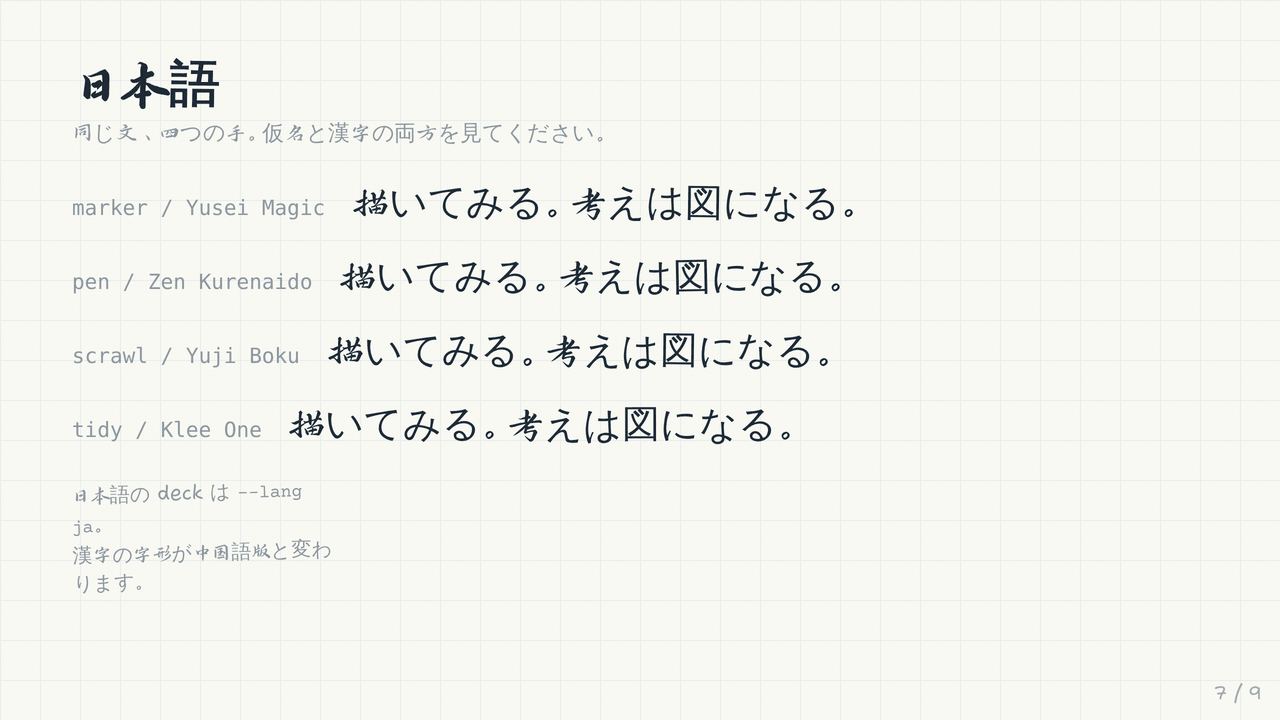
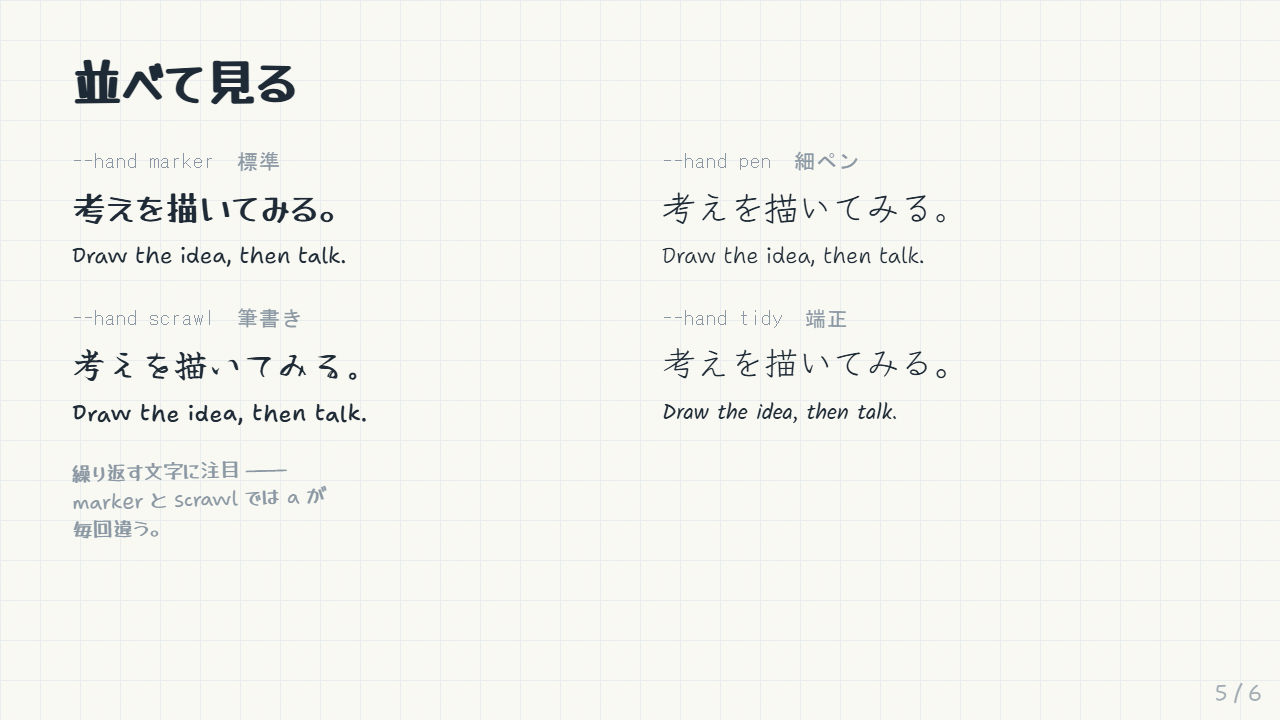
Localize README screenshots; fix per-element data-hand fonts
English and Japanese READMEs now show slides in their own language,
built from demo/en-slides.html and demo/ja-slides.html.

font-family was only declared on html/body, so every [data-hand]
element inherited body's already-resolved stack and the specimen's
side-by-side hands all rendered in marker. Restate it on [data-hand]
and retake hands.png / ja.png, which showed the bug.

diff --git a/demo/ja-slides.html b/demo/ja-slides.html
@@ -1,33 +1,117 @@
+<!-- README screenshots, Japanese. Build with --all-fonts --lang ja: the hands slide switches hand per element. -->
 <section class="slide">
   <div class="stage center-all">
     <div>
       <p class="eyebrow">handwritten-slides</p>
       <h1>考えを <span data-sketch="highlight">描く</span></h1>
-      <p class="lead pencil" style="margin-top:18px">手書き風スライド · 単一の HTML ファイル</p>
+      <p class="lead pencil" style="margin-top:18px">手書き風スライドの生成器 · 単一の HTML ファイル</p>
+      <p class="small pencil" style="margin-top:40px">← → ページ送り　f 全画面　o 一覧　⌘P PDF に書き出し</p>
     </div>
   </div>
 </section>
+
 <section class="slide">
   <div class="stage">
     <h2>なぜ手書きなのか</h2>
-    <div class="cols-3" style="margin-top:50px">
-      <div class="sticky"><h3>先に考える</h3><p>描けない関係は、まだ分かっていない関係です。</p></div>
-      <div class="sticky mint"><h3>密度が下がる</h3><p>手書きの字は八項目を支えられません。</p></div>
-      <div class="sticky pink"><h3>人が作った</h3><p>不完全さは痕跡を残し、痕跡は記憶に残ります。</p></div>
+    <div class="cols-3" style="margin-top:52px">
+      <div class="sticky cream">
+        <h3>先に考えさせる</h3>
+        <p>描けない関係は、まだ分かっていない関係です。</p>
+      </div>
+      <div class="sticky cream">
+        <h3>密度が自然に下がる</h3>
+        <p>手書きの字は八項目を支えられないので、一つだけ残します。</p>
+      </div>
+      <div class="sticky cream">
+        <h3>人が作ったと分かる</h3>
+        <p>不完全さは痕跡を残し、痕跡は記憶に残ります。</p>
+      </div>
     </div>
+    <p class="note" style="margin-top:44px">付箋は影で分ける。<br>色ではなく。</p>
   </div>
 </section>
+
 <section class="slide">
   <div class="stage">
-    <h2>図と数字</h2>
-    <div class="cols-2" style="margin-top:36px">
-      <ul class="bullets">
-        <li>一枚に一つの主張</li>
-        <li>関係は矢印で描く</li>
-        <li>強調は一箇所だけ</li>
-      </ul>
-      <div style="height:250px" data-sketch="bars" data-values="18,44,62,71"
-           data-labels="2023,2024,2025,2026" data-sketch-fill="yellow" data-suffix="%"></div>
+    <h2>関係は描いて見せる</h2>
+    <div class="row center" style="margin-top:86px;justify-content:center">
+      <div id="n1" class="card" style="width:210px;text-align:center" data-sketch="box">元の問題</div>
+      <div style="width:78px"></div>
+      <div id="n2" class="card" style="width:210px;text-align:center" data-sketch="box" data-sketch-fill="yellow">構造化解析</div>
+      <div style="width:78px"></div>
+      <div id="n3" class="card" style="width:210px;text-align:center" data-sketch="box">問題バンク</div>
+    </div>
+    <div data-sketch="arrow" data-from="#n1" data-to="#n2"></div>
+    <div data-sketch="arrow" data-from="#n2" data-to="#n3"></div>
+
+    <div id="n4" class="card" style="width:230px;text-align:center;margin:110px auto 0" data-sketch="box" data-sketch-color="red">人による抜き取り</div>
+    <div data-sketch="arrow" data-from="#n4" data-to="#n2" data-bend="0.2" data-sketch-color="red"></div>
+    <p class="note" style="position:absolute;right:78px;bottom:70px">矢印は自分で縁を探す。<br>座標は要らない。</p>
+  </div>
+</section>
+
+<section class="slide">
+  <div class="stage">
+    <h2>棒グラフ</h2>
+    <p class="pencil" style="margin-top:6px">二つから六つの量なら、文章より伝わる。</p>
+    <div style="height:330px;margin-top:24px" data-sketch="bars"
+         data-values="18,44,62,71"
+         data-labels="2023,2024,2025,2026"
+         data-fills="pencil,pencil,yellow,mint"
+         data-suffix="%"></div>
+    <p class="small pencil" style="margin-top:10px">参考データ · 正確な数値はスライドに文字で書く</p>
+  </div>
+</section>
+
+<section class="slide">
+  <div class="stage">
+    <h2>並べて見る</h2>
+    <div class="cols-2" style="margin-top:34px;gap:30px 44px">
+      <div data-hand="marker">
+        <p class="small pencil" style="margin-bottom:4px;font-family:ui-monospace,monospace">--hand marker　標準</p>
+        <p style="font-size:34px;margin:0 0 4px">考えを描いてみる。</p>
+        <p style="font-size:22px;margin:0">Draw the idea, then talk.</p>
+      </div>
+      <div data-hand="pen">
+        <p class="small pencil" style="margin-bottom:4px;font-family:ui-monospace,monospace">--hand pen　細ペン</p>
+        <p style="font-size:34px;margin:0 0 4px">考えを描いてみる。</p>
+        <p style="font-size:22px;margin:0">Draw the idea, then talk.</p>
+      </div>
+      <div data-hand="scrawl">
+        <p class="small pencil" style="margin-bottom:4px;font-family:ui-monospace,monospace">--hand scrawl　筆書き</p>
+        <p style="font-size:34px;margin:0 0 4px">考えを描いてみる。</p>
+        <p style="font-size:22px;margin:0">Draw the idea, then talk.</p>
+      </div>
+      <div data-hand="tidy">
+        <p class="small pencil" style="margin-bottom:4px;font-family:ui-monospace,monospace">--hand tidy　端正</p>
+        <p style="font-size:34px;margin:0 0 4px">考えを描いてみる。</p>
+        <p style="font-size:22px;margin:0">Draw the idea, then talk.</p>
+      </div>
+    </div>
+    <p class="note" style="margin-top:26px">繰り返す文字に注目 ——<br>marker と scrawl では a が毎回違う。</p>
+  </div>
+</section>
+
+<section class="slide">
+  <div class="stage">
+    <h2>二つの作り方</h2>
+    <div class="cols-2" style="margin-top:48px">
+      <div class="card" data-sketch="box" data-sketch-color="pencil">
+        <h3 class="pencil">テンプレート</h3>
+        <ul class="bullets">
+          <li>三十秒で完成</li>
+          <li>箇条書き八項目</li>
+          <li>見たらすぐ忘れる</li>
+        </ul>
+      </div>
+      <div class="card" data-sketch="box" data-sketch-color="red" data-sketch-fill="yellow">
+        <h3>手書き</h3>
+        <ul class="bullets arrow">
+          <li>考えてから書く</li>
+          <li>一枚に一つのこと</li>
+          <li>記憶に残る</li>
+        </ul>
+      </div>
     </div>
   </div>
 </section>

diff --git a/demo/en-slides.html b/demo/en-slides.html
@@ -1,0 +1,117 @@
+<!-- README screenshots, English. Build with --all-fonts --lang en: the hands slide switches hand per element. -->
+<section class="slide">
+  <div class="stage center-all">
+    <div>
+      <p class="eyebrow">handwritten-slides</p>
+      <h1>Draw the <span data-sketch="highlight">idea</span></h1>
+      <p class="lead pencil" style="margin-top:18px">Handwritten-style slides · one self-contained HTML file</p>
+      <p class="small pencil" style="margin-top:40px">← → page　f fullscreen　o overview　⌘P save as PDF</p>
+    </div>
+  </div>
+</section>
+
+<section class="slide">
+  <div class="stage">
+    <h2>Why handwritten</h2>
+    <div class="cols-3" style="margin-top:52px">
+      <div class="sticky cream">
+        <h3>It forces clarity</h3>
+        <p>A relationship you can't draw is one you haven't worked out yet.</p>
+      </div>
+      <div class="sticky cream">
+        <h3>Density stays low</h3>
+        <p>A hand can't carry eight bullets, so you keep the one that matters.</p>
+      </div>
+      <div class="sticky cream">
+        <h3>A person made it</h3>
+        <p>Imperfection leaves marks, and marks get remembered.</p>
+      </div>
+    </div>
+    <p class="note" style="margin-top:44px">Ivory notes: shadow,<br>not colour.</p>
+  </div>
+</section>
+
+<section class="slide">
+  <div class="stage">
+    <h2>Draw the relationship</h2>
+    <div class="row center" style="margin-top:86px;justify-content:center">
+      <div id="n1" class="card" style="width:210px;text-align:center" data-sketch="box">Raw questions</div>
+      <div style="width:78px"></div>
+      <div id="n2" class="card" style="width:210px;text-align:center" data-sketch="box" data-sketch-fill="yellow">Structured parse</div>
+      <div style="width:78px"></div>
+      <div id="n3" class="card" style="width:210px;text-align:center" data-sketch="box">Question bank</div>
+    </div>
+    <div data-sketch="arrow" data-from="#n1" data-to="#n2"></div>
+    <div data-sketch="arrow" data-from="#n2" data-to="#n3"></div>
+
+    <div id="n4" class="card" style="width:230px;text-align:center;margin:110px auto 0" data-sketch="box" data-sketch-color="red">Spot check</div>
+    <div data-sketch="arrow" data-from="#n4" data-to="#n2" data-bend="0.2" data-sketch-color="red"></div>
+    <p class="note" style="position:absolute;right:78px;bottom:70px">Arrows find their own edges,<br>no coordinates.</p>
+  </div>
+</section>
+
+<section class="slide">
+  <div class="stage">
+    <h2>Bar chart</h2>
+    <p class="pencil" style="margin-top:6px">Two to six quantities beat a sentence.</p>
+    <div style="height:330px;margin-top:24px" data-sketch="bars"
+         data-values="18,44,62,71"
+         data-labels="2023,2024,2025,2026"
+         data-fills="pencil,pencil,yellow,mint"
+         data-suffix="%"></div>
+    <p class="small pencil" style="margin-top:10px">Illustrative data · put exact readings on the slide as text</p>
+  </div>
+</section>
+
+<section class="slide">
+  <div class="stage">
+    <h2>Side by side</h2>
+    <div class="cols-2" style="margin-top:34px;gap:30px 44px">
+      <div data-hand="marker">
+        <p class="small pencil" style="margin-bottom:4px;font-family:ui-monospace,monospace">--hand marker　default</p>
+        <p style="font-size:34px;margin:0 0 4px">Draw the idea, then talk.</p>
+        <p style="font-size:22px;margin:0">把想法画出来。描いてみる。</p>
+      </div>
+      <div data-hand="pen">
+        <p class="small pencil" style="margin-bottom:4px;font-family:ui-monospace,monospace">--hand pen　fine pen</p>
+        <p style="font-size:34px;margin:0 0 4px">Draw the idea, then talk.</p>
+        <p style="font-size:22px;margin:0">把想法画出来。描いてみる。</p>
+      </div>
+      <div data-hand="scrawl">
+        <p class="small pencil" style="margin-bottom:4px;font-family:ui-monospace,monospace">--hand scrawl　loose</p>
+        <p style="font-size:34px;margin:0 0 4px">Draw the idea, then talk.</p>
+        <p style="font-size:22px;margin:0">把想法画出来。描いてみる。</p>
+      </div>
+      <div data-hand="tidy">
+        <p class="small pencil" style="margin-bottom:4px;font-family:ui-monospace,monospace">--hand tidy　neat</p>
+        <p style="font-size:34px;margin:0 0 4px">Draw the idea, then talk.</p>
+        <p style="font-size:22px;margin:0">把想法画出来。描いてみる。</p>
+      </div>
+    </div>
+    <p class="note" style="margin-top:26px">Watch the repeated letters —<br>no two a's match in marker or scrawl.</p>
+  </div>
+</section>
+
+<section class="slide">
+  <div class="stage">
+    <h2>Two ways to make a deck</h2>
+    <div class="cols-2" style="margin-top:48px">
+      <div class="card" data-sketch="box" data-sketch-color="pencil">
+        <h3 class="pencil">Template</h3>
+        <ul class="bullets">
+          <li>Done in thirty seconds</li>
+          <li>Eight bullets</li>
+          <li>Forgotten by lunch</li>
+        </ul>
+      </div>
+      <div class="card" data-sketch="box" data-sketch-color="red" data-sketch-fill="yellow">
+        <h3>Hand-drawn</h3>
+        <ul class="bullets arrow">
+          <li>Think before the pen moves</li>
+          <li>One thing per slide</li>
+          <li>Remembered</li>
+        </ul>
+      </div>
+    </div>
+  </div>
+</section>

diff --git a/assets/sketch.css b/assets/sketch.css
@@ -63,6 +63,9 @@
 [data-hand] {
   --font-display: var(--latin-display), var(--zh), var(--ja), "Kaiti SC", "KaiTi", "STKaiti", "Chalkboard SE", cursive;
   --font-hand:    var(--latin-body), var(--zh), var(--ja), "Kaiti SC", "KaiTi", "STKaiti", "Segoe Print", cursive;
+  /* font-family resolves var() where it's declared, so body's value would be
+     inherited already fixed to body's hand. Restate it on each data-hand. */
+  font-family: var(--font-hand);
   font-variation-settings: var(--hand-vary, normal);
   font-weight: var(--hand-body-weight, 400);
 }

diff --git a/README.ja.md b/README.ja.md
@@ -6,7 +6,7 @@
 
 CJK を最優先に設計しています。このスタイルで難しいのはラテン文字ではありません。中国語と日本語を英語と同じ筆致にそろえ、こっそりシステムのゴシック体に逃げさせないことです。
 
-![表紙](docs/img/cover.png)
+![表紙](docs/img/cover-ja.png)
 
 ビルドシステムも依存関係もフレームワークもありません。すべての線はバニラ JS が描き、約 90 行の Python スクリプトがそれを 1 つのファイルにインライン化します。
 
@@ -49,19 +49,19 @@ python3 scripts/build.py demo/slides.html -o deck.html \
 
 矢印は自分で要素の端を見つけるので、座標を書く必要はありません。
 
-![フロー図](docs/img/diagram.png)
+![フロー図](docs/img/diagram-ja.png)
 
 `box` `circle` `underline` `strike` `highlight` `cloud` `bracket` `check` `cross` `arrow` `bars` `plot`：全カタログとコピペ用のマークアップは [references/components.md](references/components.md) にあります。
 
 グラフはあえて大まかにしています。示すのは形であって読み取り値ではありません。正確な数値はテキストとしてスライドに書いてください。
 
-![棒グラフ](docs/img/chart.png)
+![棒グラフ](docs/img/chart-ja.png)
 
 ---
 
 ## 4 種類の手書き
 
-![4 種類の手書きの比較](docs/img/hands.png)
+![4 種類の手書きの比較](docs/img/hands-ja.png)
 
 | `--hand` | ラテン文字 | 中国語 | 日本語 | 用途 |
 |---|---|---|---|---|
@@ -88,7 +88,7 @@ python3 scripts/build.py demo/slides.html -o deck.html \
 
 ## テーマと紙
 
-![付箋](docs/img/sticky.png)
+![付箋](docs/img/sticky-ja.png)
 
 付箋は黄色、`.cream`、`.mint`、`.blue`、`.pink` があります。アイボリーは控えめな選択肢です。デフォルトの紙の上では地色とのコントラストが 1.02 しかなく、色では区別できません。そのため 2 層の影、つまりぴったり接した影と柔らかい環境光の影だけで見分けられるようにしています。白い紙の上に置いた白いメモ用紙と同じです。
 
@@ -116,7 +116,7 @@ python3 scripts/build.py demo/slides.html -o deck.html \
 - ハイライトは 1 枚につき 1 回だけ。
 - 続くスライドの形に変化をつける：タイトル → 付箋 3 枚 → 図 1 つ → 大きな数字 1 つ → 比較。
 
-![比較スライド](docs/img/compare.png)
+![比較スライド](docs/img/compare-ja.png)
 
 ---
 

diff --git a/README.md b/README.md
@@ -6,7 +6,7 @@ Presentation decks that look drawn on paper — wobbly ink outlines, marker high
 
 Built for CJK first. The hard part of this style isn't the Latin; it's keeping Chinese and Japanese in the same voice as the English instead of quietly falling back to a system sans.
 
-![Cover slide](docs/img/cover.png)
+![Cover slide](docs/img/cover-en.png)
 
 No build system, no dependencies, no framework. Vanilla JS draws every stroke; a ~90-line Python script inlines it into one file.
 
@@ -49,19 +49,19 @@ Add `data-sketch` to any element and a hand-drawn shape is fitted to it after th
 
 Arrows find their own edges, so nothing needs coordinates.
 
-![Flow diagram](docs/img/diagram.png)
+![Flow diagram](docs/img/diagram-en.png)
 
 `box` `circle` `underline` `strike` `highlight` `cloud` `bracket` `check` `cross` `arrow` `bars` `plot` — the full catalogue with copy-paste markup is in [references/components.md](references/components.md).
 
 Charts are deliberately approximate. They show shape, not readings; put exact numbers on the slide as text.
 
-![Bar chart](docs/img/chart.png)
+![Bar chart](docs/img/chart-en.png)
 
 ---
 
 ## The four hands
 
-![Four hands compared](docs/img/hands.png)
+![Four hands compared](docs/img/hands-en.png)
 
 | `--hand` | Latin | Chinese | Japanese | For |
 |---|---|---|---|---|
@@ -88,7 +88,7 @@ Japanese decks need `--lang ja`: Klee One and the Chinese faces disagree on shar
 
 ## Themes and paper
 
-![Sticky notes](docs/img/sticky.png)
+![Sticky notes](docs/img/sticky-en.png)
 
 Sticky notes come in yellow, `.cream`, `.mint`, `.blue`, `.pink`. The ivory one is the quiet option: on the default paper it sits at 1.02 contrast from the ground, so no colour separation is possible and it's read entirely through a two-layer shadow — a tight contact shadow plus a soft ambient one — the way a white memo sheet on white paper is.
 
@@ -116,7 +116,7 @@ The style collapses under density — a wall of text in a handwriting face is ha
 - Spend the highlight once per slide.
 - Vary the shape of consecutive slides: title → three stickies → one diagram → one big number → a comparison.
 
-![Comparison slide](docs/img/compare.png)
+![Comparison slide](docs/img/compare-en.png)
 
 ---
 
